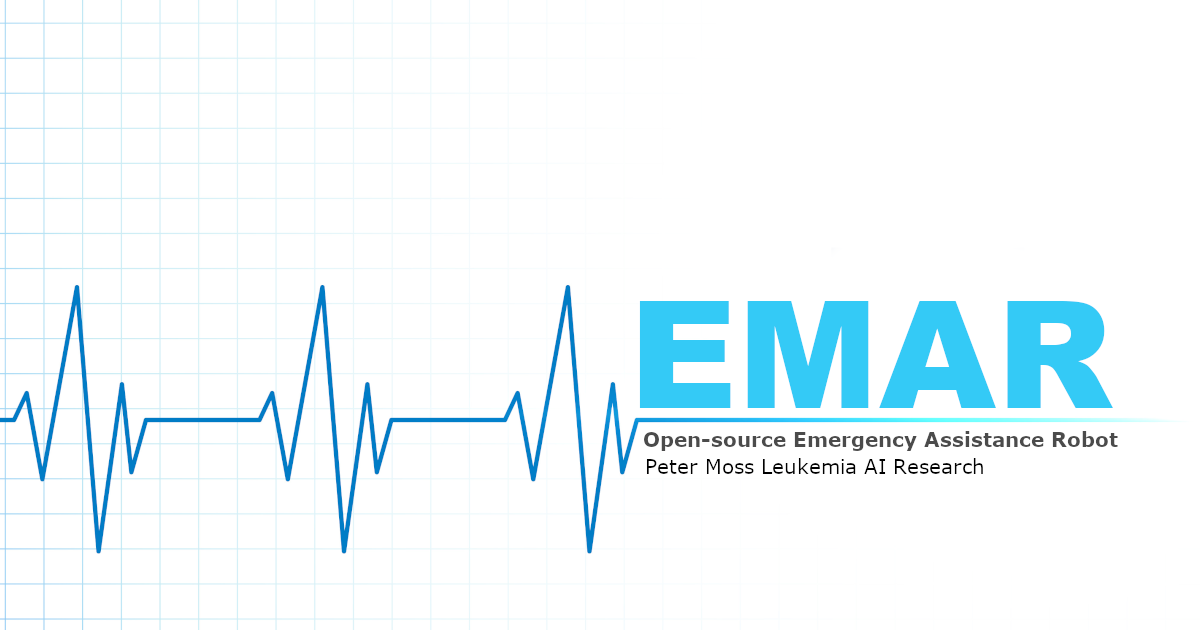
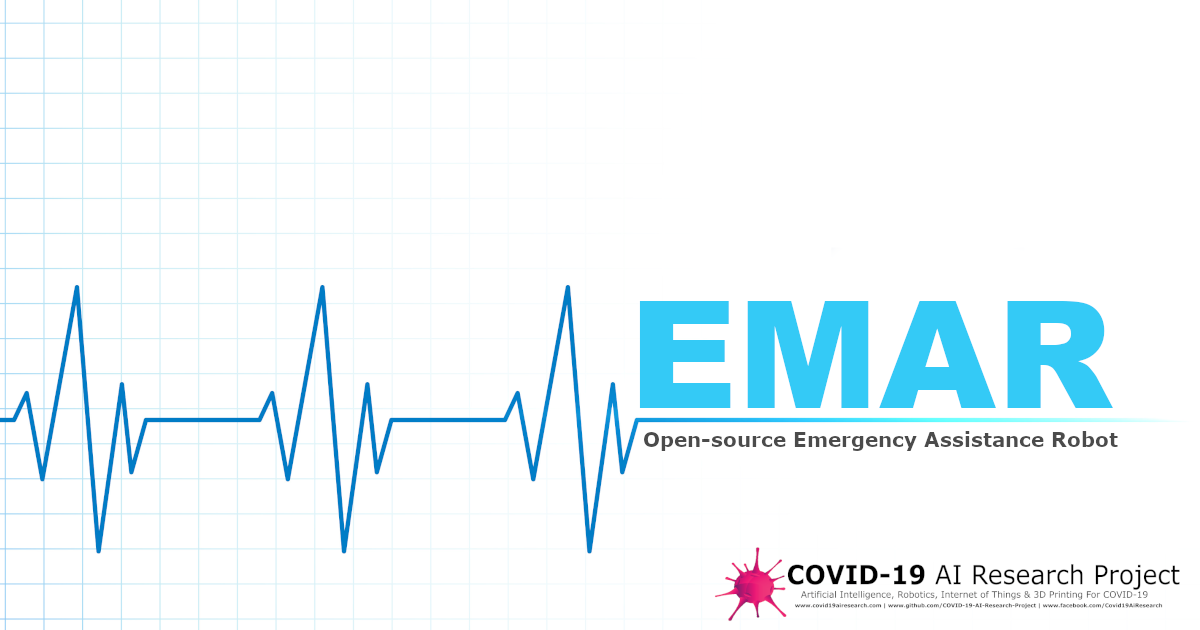
Project update

Changed region(s): [[0.5858, 0.8746, 0.9867, 0.9651], [0.5242, 0.7238, 0.8325, 0.754]]

diff --git a/README.md b/README.md
@@ -9,11 +9,9 @@
 # Table Of Contents
 
 - [Introduction](#introduction)
+- [Open Technology](#open-technology)
 - [Key Features](#key-features)
 - [Assistance Features](#assistance-features)
-- [EMAR](#emar)
-- [EMAR UI (HIAS)](#emar-ui-hias)
-- [Installation](#installation)
 - [Contributing](#contributing)
     - [Contributors](#contributors)
 - [Versioning](#versioning)
@@ -24,15 +22,26 @@
 
 # Introduction
 
+![EMAR Design 1](Media/Images/EMAR-Design-1.jpg)  
+**DESIGN CREDIT:** [Simeon Pieterkosky](https://www.leukemiaresearchassociation.ai/team/simeon-pieterkosky "Simeon Pieterkosky")
+
 **EMAR** is an open-source, tele-operated Emergency Assistance Robot, designed to reduce the amount of exposure medical staff have with patients and potential patients during pandemics and similar situations we may face in the future. 
 
 The idea for this open-source tele-operated robot came as I was sat in room in a hospital surrounded by people with COVID-19 as a potential COVID-19 Pneumonia patient. The doctors, nurses and other teams were in among us for the whole 12 hours or more I was in the hospital.
 
 Some of the common things I saw was nurses & doctors calling patients, giving paracetamol, taking temperatures, adjusting masks and blankets. Every time one of the medical staff had to do one of these tasks they were putting themselves in danger of catching COVID-19.
 
-Each of these tasks can be carried out by tele-operated robots, so this is where the idea came from.    
+Each of these tasks can be carried out by tele-operated robots, and this is what we are building EMAR for.    
 
 __This project is a work in progress, however our plan is to work with a local medical/health center or hospital to do a pilot project.__
+
+&nbsp;
+
+# Open Technology
+- **Open Software** 
+    - EMAR's software is entirely open-source.
+- **Open STLS** 
+    - The STL files required to print EMAR are open-source.
 
 &nbsp;
 
@@ -46,8 +55,6 @@ __This project is a work in progress, however our plan is to work with a local m
     - EMAR's shell is 3D printed.
 - **Tele-Operated** 
     - Remotely operated using the HIAS UI & voice control.
-- **Two way audio streaming** 
-    - Two way audio streaming allows medical staff and patients to communicate.
 - **Object detection** 
     - Object detection adds an extra layer of awareness, assisting medical staff as they maneuver the robot.
 - **Proximity Sensors** 
@@ -62,23 +69,8 @@ __This project is a work in progress, however our plan is to work with a local m
     - Able to adjust blankets on patients.
 - **Adjusting Breathing Apparatus** 
     - Able to adjust beathing apparatus on patients.
-
-&nbsp;
-
-# Open Technology
-- **Open Software** 
-    - EMAR's software is entirely open-source.
-- **Open STLS** 
-    - The STL files required to print EMAR are open-source.
-
-&nbsp;
-
-## Installation
-Installation scripts and tutorials for setting up your Emergency Assistance Robot & UI are provided. To get started, please follow the installation guides provided below in the order they are given:
-
-| ORDER | GUIDE | INFORMATION | AUTHOR |
-| ----- | ----- | ----------- | ------ |
-| 1 | [Main Installation Guide](Documentation/Installation/Installation.md "Main Installation Guide") | Primary installation guide covering most of the information needed to do the core installation |  [Adam Milton-Barker](https://www.leukemiaresearchassociation.ai.com/team/adam-milton-barker "Adam Milton-Barker") |
+- **Two way audio streaming** 
+    - Two way audio streaming allows medical staff and patients to communicate.
 
 &nbsp;
 
@@ -90,7 +82,13 @@ Please read the [CONTRIBUTING](CONTRIBUTING.md "CONTRIBUTING") document for a fu
 
 ## Contributors
 
-- **AUTHOR:** [Adam Milton-Barker](https://www.leukemiaresearchassociation.ai.com/team/adam-milton-barker "Adam Milton-Barker") - [Peter Moss Leukemia AI Research](https://www.leukemiaresearchassociation.ai "Peter Moss Leukemia AI Research") Founder & Intel Software Innovator, Sabadell, Spain
+- [Adam Milton-Barker](https://www.leukemiaresearchassociation.ai/team/adam-milton-barker "Adam Milton-Barker") - [Asociacion De Investigation En Inteligencia Artificial Para La Leucemia Peter Moss](https://www.leukemiaresearchassociation.ai "Asociacion De Investigation En Inteligencia Artificial Para La Leucemia Peter Moss") President & Lead Developer, Sabadell, Spain
+
+- [Simeon Pieterkosky](https://www.leukemiaresearchassociation.ai/team/simeon-pieterkosky "Simeon Pieterkosky") - [Asociacion De Investigation En Inteligencia Artificial Para La Leucemia Peter Moss](https://www.leukemiaresearchassociation.ai "Asociacion De Investigation En Inteligencia Artificial Para La Leucemia Peter Moss") EMAR Product Designer, Norway
+
+- [Rahul Gupta](https://www.leukemiaresearchassociation.ai/team/rahul-gupta "Rahul Gupta") - [Asociacion De Investigation En Inteligencia Artificial Para La Leucemia Peter Moss](https://www.leukemiaresearchassociation.ai "Asociacion De Investigation En Inteligencia Artificial Para La Leucemia Peter Moss") Robotics Engineering & R&D, Gurgaon, India
+
+- [Utkrisht Sharma](https://www.leukemiaresearchassociation.ai/team/utkrisht-sharma "Utkrisht Sharma") - [Asociacion De Investigation En Inteligencia Artificial Para La Leucemia Peter Moss](https://www.leukemiaresearchassociation.ai "Asociacion De Investigation En Inteligencia Artificial Para La Leucemia Peter Moss") Robotics Engineering & R&D, Delhi, India
 
 &nbsp;
 

diff --git a/CONTRIBUTING.md b/CONTRIBUTING.md
@@ -1,5 +1,5 @@
 # Peter Moss COVID-19 AI Research Project
-## Contributing to the Emergency Assistance Robot
+## Contributing to EMAR Emergency Assistance Robot
 
 We encourage bug fixes and enhancements submitted by the community and there are a number of ways you can contribute towards this repository.
 
@@ -127,9 +127,9 @@ Whenever relevant you should add yourself to the contributors section of the REA
 Each .md file in the repository should use the same header. An example of this is as follows:
 
 ```
-# Peter Moss Leukemia AI Research
-## Emergency Assistance Robot
-[![Emergency Assistance Robot](Media/Images/EMAR.png)](https://github.com/COVID-19-AI-Research-Project/EMAR)
+# Peter Moss COVID-19 AI Research Project
+## EMAR Emergency Assistance Robot
+[![EMAR Emergency Assistance Robot](Media/Images/EMAR-Mini.png)](https://github.com/COVID-19-AI-Research-Project/EMAR-Mini)
 ```
 
 Each .md file in the repository should also use the same footer, with the excpetions of the contributors. If you contribute directly to the code or documentation you should update this area with your details.
@@ -139,38 +139,38 @@ Each .md file in the repository should also use the same footer, with the excpet
 
 # Contributing
 
-The Peter Moss Acute Myeloid & Lymphoblastic Leukemia AI Research project encourages and welcomes code contributions, bug fixes and enhancements from the Github.
+The Peter Moss Acute COVID-19 AI Research project encourages and welcomes code contributions, bug fixes and enhancements from the Github.
 
-Please read the [CONTRIBUTING](../CONTRIBUTING.md "CONTRIBUTING") document for a full guide to forking our repositories and submitting your pull requests. You will also find information about our code of conduct on this page.
+Please read the [CONTRIBUTING](CONTRIBUTING.md "CONTRIBUTING") document for a full guide to forking your repositories and submitting your pull requests. You will also find information about your code of conduct on this page.
 
 ## Contributors
 
-- **PROJECT AUTHOR:** [Adam Milton-Barker](https://www.leukemiaresearchassociation.ai.com/team/adam-milton-barker "Adam Milton-Barker") - [Peter Moss Leukemia AI Research](https://www.leukemiaresearchassociation.ai "Peter Moss Leukemia AI Research") Founder & Intel Software Innovator, Sabadell, Spain
+- [Adam Milton-Barker](https://www.leukemiaresearchassociation.ai.com/team/adam-milton-barker "Adam Milton-Barker") - [Peter Moss Leukemia AI Research](https://www.leukemiaresearchassociation.ai "Peter Moss Leukemia AI Research") Founder & Intel Software Innovator, Sabadell, Spain
 
 &nbsp;
 
 # Versioning
 
-We use SemVer for versioning. For the versions available, see [Releases](../releases "Releases").
+We use SemVer for versioning. For the versions available, see [Releases](releases "Releases").
 
 &nbsp;
 
 # License
 
-This project is licensed under the **MIT License** - see the [LICENSE](../LICENSE "LICENSE") file for details.
+This project is licensed under the **MIT License** - see the [LICENSE](LICENSE "LICENSE") file for details.
 
 &nbsp;
 
 # Bugs/Issues
 
-We use the [repo issues](issues "repo issues") to track bugs and general requests related to using this project. See [CONTRIBUTING](../CONTRIBUTING.md "CONTRIBUTING") for more info on how to submit bugs, feature requests and proposals.
+We use the [repo issues](issues "repo issues") to track bugs and general requests related to using this project. See [CONTRIBUTING](CONTRIBUTING.md "CONTRIBUTING") for more info on how to submit bugs, feature requests and proposals.
 ```
 
 The project README contributors should contain a list of all contributors in the entire repository. 
 
 # Push changes to forked repository
 
-![Push changes to forked repository](https://www.leukemiaresearchfoundation.ai/github/media/images/Contributing-Commit-Push.jpg)
+![Push changes to forked repository](https://www.leukemiaresearchassociation.ai/github/media/images/Contributing-Commit-Push.jpg)
 
 When you have made your changes, you need to push them to your forked repository. This process requires a commit with a message about what your commit is, and then finally a push to the repository which will place your changes or created files to your forked repository.
 
@@ -211,7 +211,7 @@ You can also Github Desktop if on Windows as shown in the image above.
 
 # Pull requests
 
-![Pull requests](https://www.leukemiaresearchfoundation.ai/github/media/images/Contributing-Pull-Requests.jpg)
+![Pull requests](https://www.leukemiaresearchassociation.ai/github/media/images/Contributing-Pull-Requests.jpg)
 When you are satisfied with your changes you can submit a pull request that will request that your changes be pulled into the latest development branch.
 
 ## Pull Request Process
